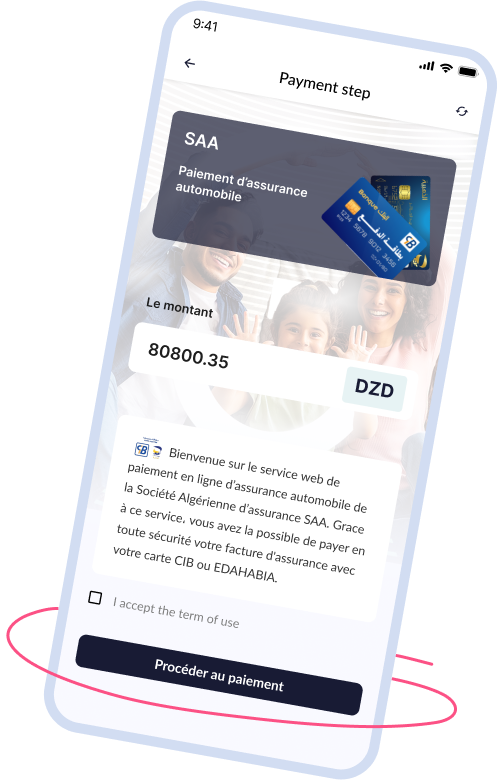
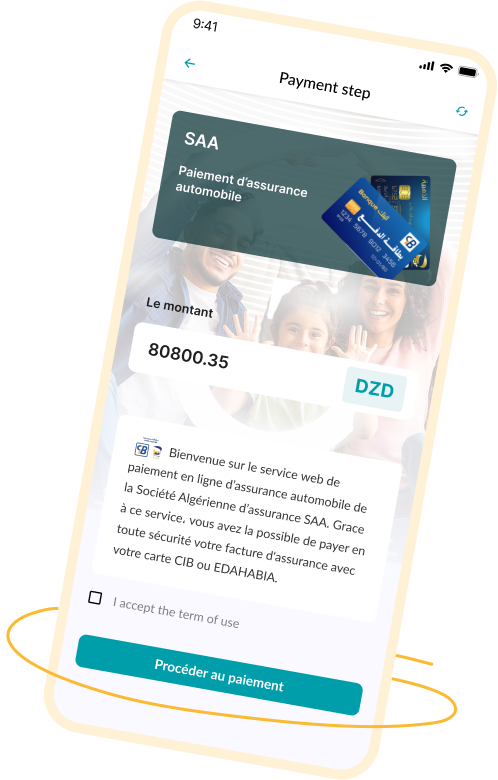
chore(mobileApp): update style

Changed region(s): [[0.0301, 0.0, 1.0, 1.0], [0.7229, 0.4615, 0.7831, 0.5231], [0.0, 0.8, 0.0301, 0.8308]]

diff --git a/components/MobileApp.vue b/components/MobileApp.vue
@@ -32,7 +32,7 @@ function selectItem(idx: number) {
 <template>
   <section>
     <div class="relative mx-auto px-6 pt-6 container lg:pt-17">
-      <div class="absolute aspect-1 w-1/6 translate-x-full rounded-full bg-[#FC5185]/25 blur-130" />
+      <div class="absolute aspect-1 w-1/6 translate-x-full rounded-full bg-[#FCB932]/16 blur-130" />
 
       <h3 class="mx-auto max-w-32ch text-center text-lg font-bold lg:text-5xl" v-html="t('title')" />
 
@@ -45,7 +45,7 @@ function selectItem(idx: number) {
           v-for="card, idx in cards" :key="idx"
         >
           <button
-            hover="from-[#1C57BC]/20 to-[#FC5185]/20 from-0% to-100% bg-gradient-to-r border-rose-500/30"
+            hover="from-[#CDEDEE] to-[#FBF6D3] bg-gradient-to-r border-[#009EAB]"
             class="group border border-transparent rounded-3xl text-left lg:block"
             @mouseover="selectItem(idx)"
           >
@@ -54,7 +54,7 @@ function selectItem(idx: number) {
             >
               <div class="row-span-2 my-auto me-8 flex items-center lg:mt-6">
                 <span
-                  class="text-extrabold h-15 w-15 flex flex-none items-center justify-center rounded-2xl bg-[#192346] pb-0.8 text-sm text-white group-hover:bg-white lg:text-3xl group-hover:text-[#2657BA]"
+                  class="text-extrabold h-15 w-15 flex flex-none items-center justify-center rounded-2xl bg-[#FCB932] pb-0.8 text-sm text-white group-hover:bg-white lg:text-3xl group-hover:text-[#009EAB]"
                 >
                   {{ idx + 1 }}
                 </span>
@@ -104,7 +104,7 @@ function selectItem(idx: number) {
 
 <i18n lang="yaml">
 fr:
-  title: Si <span class="mb-1 bg-white text-[#0D1035] px-2 pb-1 rounded-xl">rapide</span> que vous pouvez le faire pendant que votre café est encore chaud
+  title: Si <span class="mb-1 bg-[#FAF0B9] px-2 pb-1 rounded-xl">rapide</span> que vous pouvez le faire pendant que votre café est encore chaud
   subtitle: Nous avons rendu cela super simple - il n'est pas nécessaire de déterrer de vieux dossiers ou de la paperasse. Au cas où vous en auriez besoin, nous avons des conseillers non-commissionnés prêts à vous aider à chaque étape du processus.
   item1:
     title: Recevez votre devis instantané sans engagement en quelques clics!
